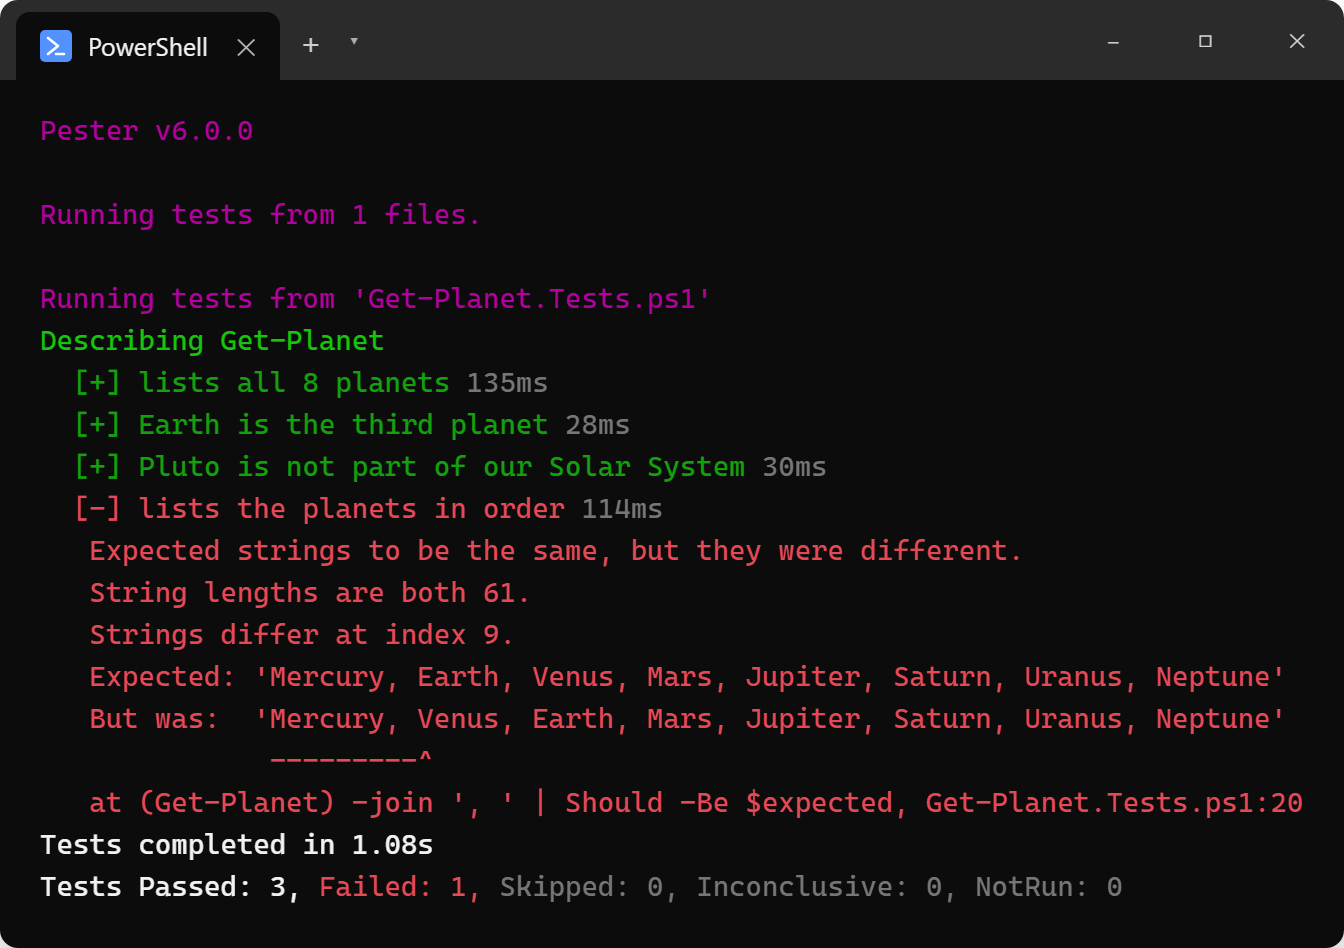
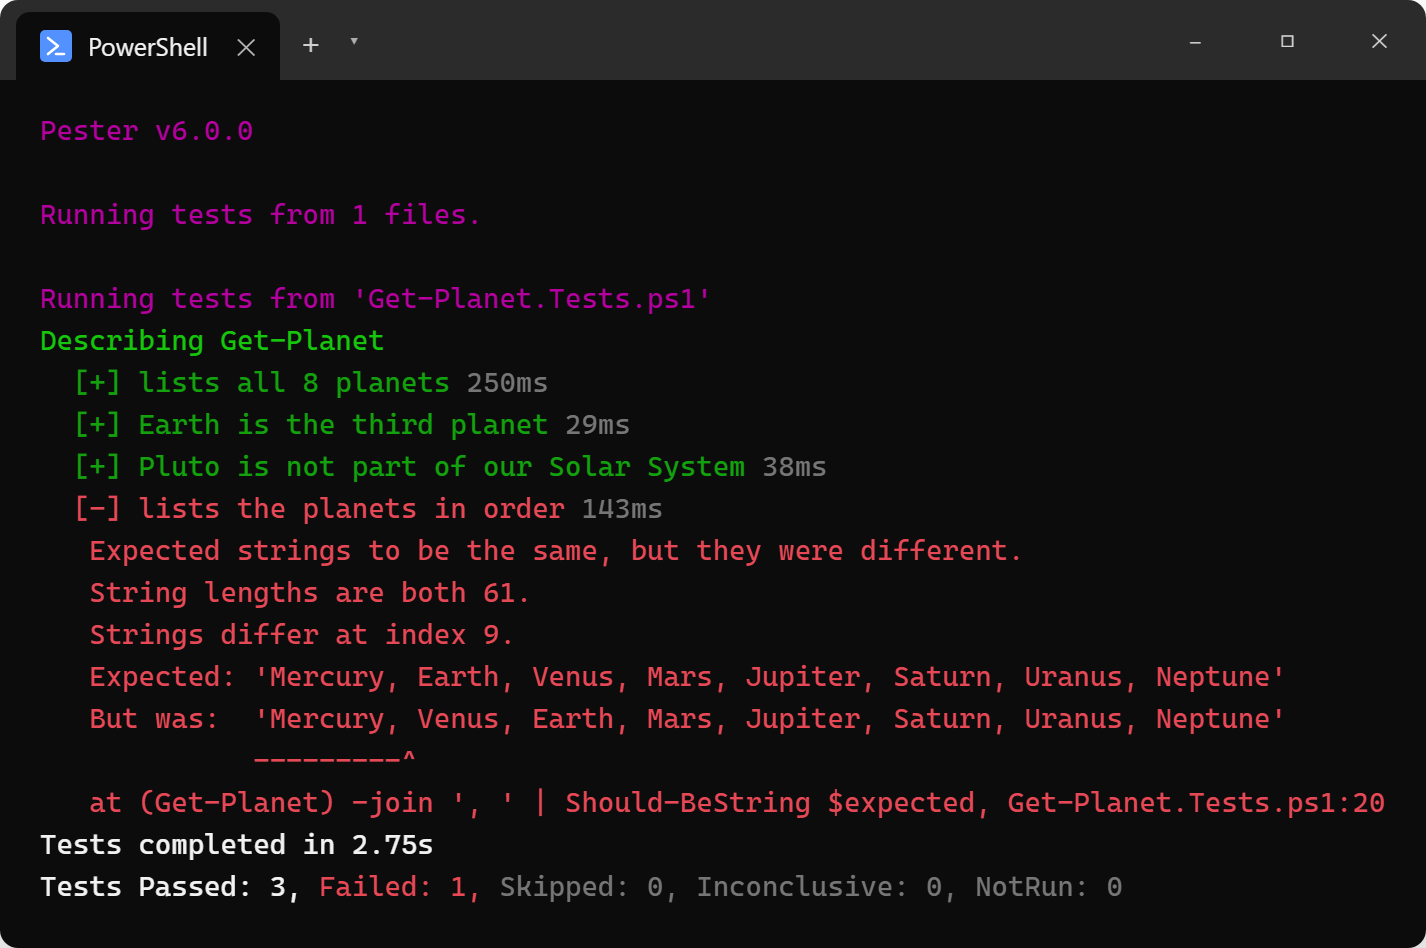
Use Should-Be syntax, fix secondary button and badge color
Addresses Frode's review.

- Sample and terminal screenshots use the Pester 6 assertions Should-Be,
  Should-BeString and Should-NotContainCollection instead of the legacy
  Should -Be. Should-BeString keeps the character-level diff in the failing
  hero screenshot.
- Give the secondary CTA button the same padding as the primary and center it,
  so its label is vertically centered instead of sitting near the top.
- Change the badge color from 0072c6 to 0072c5 to avoid the intermittent
  shields.io render error.

diff --git a/src/pages/index.js b/src/pages/index.js
@@ -113,7 +113,7 @@ const sampleTest = `BeforeAll {
 Describe 'Get-Planet' {
     It 'lists all 8 planets' {
         $planets = Get-Planet
-        $planets.Count | Should -Be 8
+        $planets.Count | Should-Be 8
     }
 }`;
 
@@ -279,13 +279,13 @@ function Credibility() {
       <div className={clsx('container', styles.sectionInner)}>
         <div className={styles.statRow}>
           <div className={styles.stat}>
-            <img alt="GitHub stars" src="https://img.shields.io/github/stars/pester/pester?style=flat-square&label=GitHub%20stars&color=0072c6" />
+            <img alt="GitHub stars" src="https://img.shields.io/github/stars/pester/pester?style=flat-square&label=GitHub%20stars&color=0072c5" />
           </div>
           <div className={styles.stat}>
-            <img alt="PowerShell Gallery downloads" src="https://img.shields.io/powershellgallery/dt/Pester?style=flat-square&label=Gallery%20downloads&color=0072c6" />
+            <img alt="PowerShell Gallery downloads" src="https://img.shields.io/powershellgallery/dt/Pester?style=flat-square&label=Gallery%20downloads&color=0072c5" />
           </div>
           <div className={styles.stat}>
-            <img alt="Latest Pester version" src="https://img.shields.io/powershellgallery/v/Pester?style=flat-square&label=latest&color=0072c6" />
+            <img alt="Latest Pester version" src="https://img.shields.io/powershellgallery/v/Pester?style=flat-square&label=latest&color=0072c5" />
           </div>
         </div>
 

diff --git a/src/pages/styles.module.css b/src/pages/styles.module.css
@@ -125,6 +125,10 @@
   color: #fff;
   border: 1px solid rgba(255, 255, 255, 0.55);
   font-weight: 600;
+  padding: 0.85rem 2rem;
+  display: inline-flex;
+  align-items: center;
+  justify-content: center;
 }
 .secondaryButton:hover {
   background: rgba(255, 255, 255, 0.14);